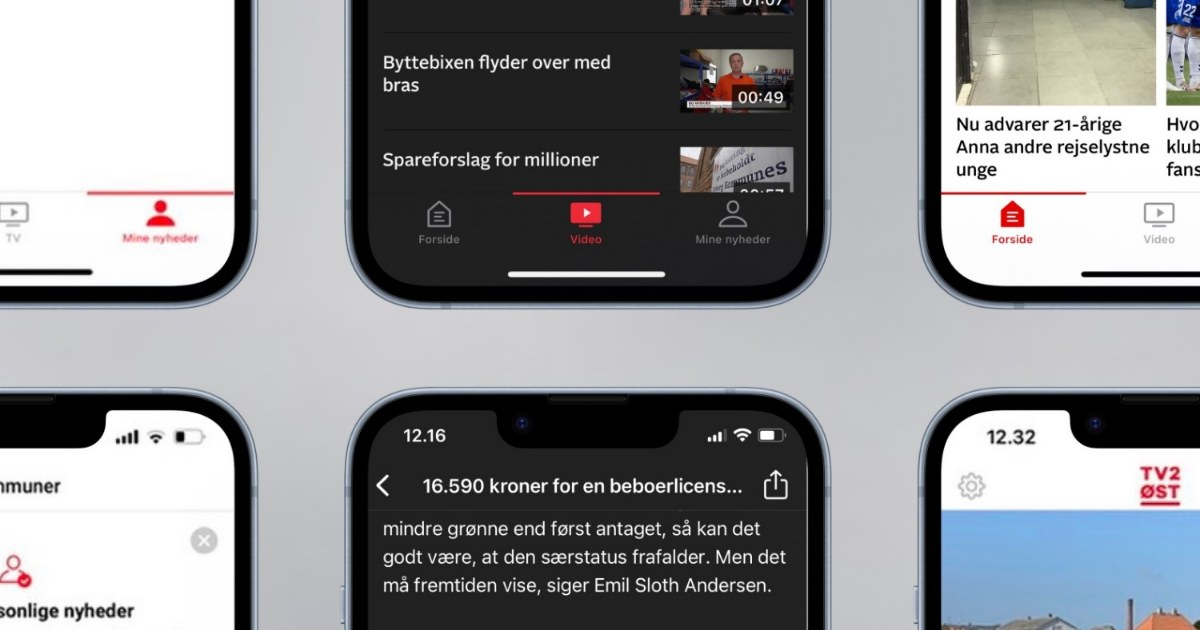
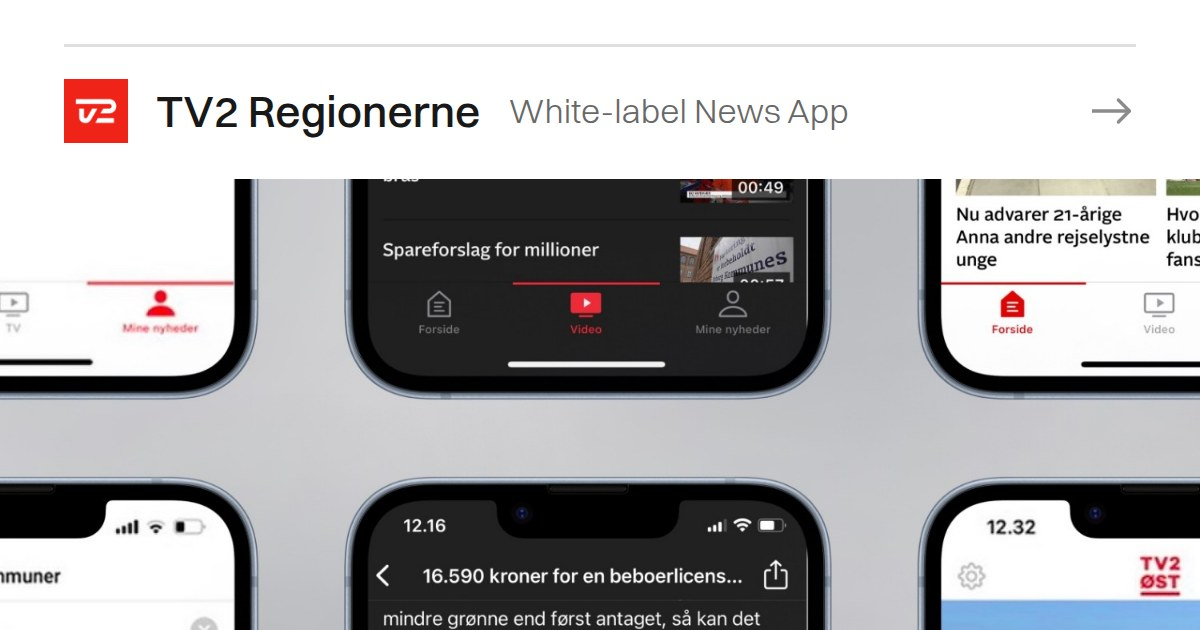
The cards become layouts, not screenshots
A preview squashed a page screenshot into the frame, trail cut and a
row half-lost. Each card is now composed for its format in the site's
own grammar, at the size a preview is read at: the site card sets the
trail, the portrait and the claim on the floor; a case card is its
wall plate, rule, row and cover. The composer stays in tools, so the
cards can be re-photographed whenever the site changes face or claim.

Claude-Session: https://claude.ai/code/session_01TTN7p9yvs1uBV7gVXB89Yx

diff --git a/tools/compose-cards.html b/tools/compose-cards.html
@@ -1,0 +1,82 @@
+<!doctype html>
+<meta charset="utf-8">
+<!-- The share cards are composed here, not screenshotted: the site's own
+     grammar set at the size a preview is read at. Open this page from the
+     repository root and photograph each .card at its exact box; the site
+     card goes to img/card.png, each case card to img/work/<case>/card.jpg. -->
+<style>
+@font-face { font-family: "Switzer"; font-style: normal; font-weight: 300; src: url("../fonts/switzer-300.woff2") format("woff2"); }
+@font-face { font-family: "Switzer"; font-style: normal; font-weight: 500; src: url("../fonts/switzer-500.woff2") format("woff2"); }
+
+/* The cards are layouts for the format, not screenshots: the site's own
+   grammar, set at the size a preview is read at. */
+* { box-sizing: border-box; margin: 0; }
+body { background: #666; font-family: "Switzer", system-ui, sans-serif; -webkit-font-smoothing: antialiased; }
+
+.card {
+	width: 1200px; height: 630px;
+	background: #ffffff; color: #181818;
+	overflow: hidden;
+	position: relative;
+	margin-bottom: 20px;
+}
+
+/* The site card: trail, portrait, and the claim on the floor. */
+.card--site { padding: 56px 64px; display: flex; flex-direction: column; }
+.card--site .trail { font-size: 30px; font-weight: 500; }
+.card--site .portrait { position: absolute; top: 56px; right: 64px; width: 210px; }
+.card--site .claim {
+	margin-top: auto;
+	font-size: 68px; line-height: 1.2; font-weight: 500; letter-spacing: -0.01em;
+	max-width: 950px;
+}
+
+/* A case card: the wall plate at card size. Rule, row, cover. */
+.card--case { display: flex; flex-direction: column; }
+.card--case .head { padding: 44px 64px 36px; }
+.card--case .rule { height: 3px; background: #dfdfdf; margin-bottom: 32px; }
+.card--case .row { display: flex; align-items: center; gap: 28px; }
+.card--case .row img { width: 64px; height: 64px; }
+.card--case .name { font-size: 44px; font-weight: 500; }
+.card--case .byline { font-size: 34px; font-weight: 300; color: #686868; }
+.card--case .arrow { margin-left: auto; color: #8b8b8b; }
+.card--case .cover { flex: 1 1 auto; min-height: 0; background: #d9d9d9; }
+.card--case .cover img { width: 100%; height: 100%; object-fit: cover; display: block; }
+.card--case .cover--inset { padding: 44px; }
+.card--case .cover--inset img { object-fit: contain; }
+</style>
+
+<div class="card card--site" id="site">
+	<p class="trail">Carl Ejlers</p>
+	<img class="portrait" src="../img/carl.jpg" alt="">
+	<p class="claim">Ten years designing digital products.</p>
+</div>
+
+<template id="case-template"></template>
+<script>
+const CASES = [
+	['economic', '../img/logos/economic-canvas.png', 'Visma e-conomic', 'Accounting Platform', '../img/work/economic/e1.png', 'inset'],
+	['theorg', '../img/logos/theorg-canvas.png', 'The Org', 'Employee Engagement Platform', '../img/theorg/cover.jpg', 'full'],
+	['trackman', '../img/logos/trackman.png', 'TrackMan', 'Virtual Golf Interface', '../img/work/trackman/track1-page.jpg', 'inset'],
+	['donkey', '../img/logos/donkey.png', 'Donkey Republic', 'Bike Rental Platform', '../img/work/donkey/cover.jpg', 'full'],
+	['tv2', '../img/logos/lorry.png', 'TV2 Regionerne', 'White-label News App', '../img/work/tv2/cover.jpg', 'full'],
+	['ok', '../img/logos/ok.png', 'OK', 'Charging and Parking Features', '../img/work/ok/OK-2.png', 'inset'],
+];
+for (const [slug, mark, name, byline, cover, mode] of CASES) {
+	const el = document.createElement('div');
+	el.className = 'card card--case';
+	el.id = slug;
+	el.innerHTML = `
+	<div class="head">
+		<div class="rule"></div>
+		<div class="row">
+			<img src="${mark}" alt="">
+			<span class="name">${name}</span>
+			<span class="byline">${byline}</span>
+			<svg class="arrow" width="44" height="44" viewBox="0 0 20 20" fill="none" stroke="currentColor" stroke-width="1.5" stroke-linecap="round" stroke-linejoin="round"><path d="M-2 10h19" /><path d="M12 5l5 5-5 5" /></svg>
+		</div>
+	</div>
+	<div class="cover ${mode === 'inset' ? 'cover--inset' : ''}"><img src="${cover}" alt=""></div>`;
+	document.body.appendChild(el);
+}
+</script>
